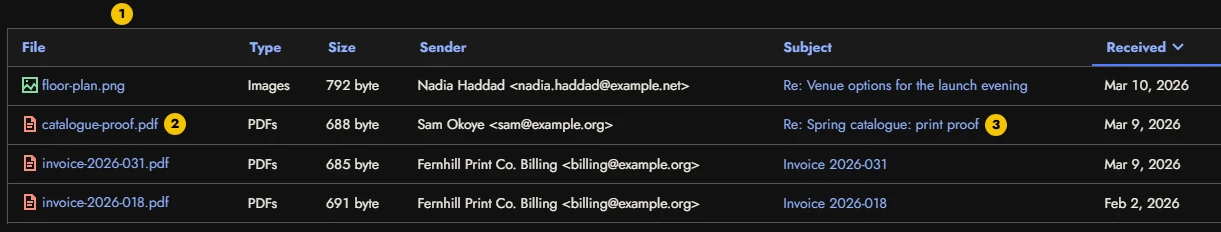
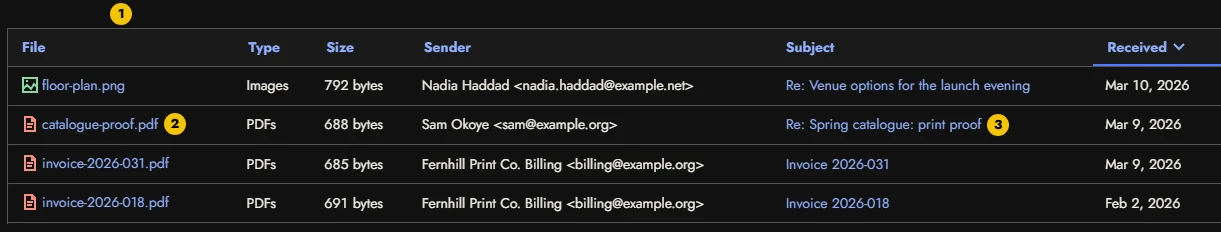
docs(user): folders orientation shot, template editor legend, linked mailbox crops

diff --git a/docs/user/mailbox/linked-accounts.md b/docs/user/mailbox/linked-accounts.md
@@ -18,10 +18,16 @@ A linked mailbox is another mailbox you open from Mailwoman while you stay signe
 
 1. Open **Settings** and choose **Linked mailboxes**.
 2. Choose **Link a mailbox**.
+
+![The Linked mailboxes card: its description, the Link a mailbox button, and the note that there are no linked mailboxes yet.](/screenshots/user-mailbox/linked-list.webp){.mw-crop}
+
+1. **Link a mailbox**.
+{.mw-callouts}
+
 3. Enter the **Username or email address** and the **Password** of the mailbox. The **Display name (optional)** can stay empty.
 4. Choose **Verify and link**.
 
-![The Link a mailbox form with the fields Username or email address, Password and Display name (optional), and the buttons Verify and link and Cancel.](/screenshots/user-mailbox/linked-form.webp){.mw-shot}
+![The Link a mailbox form with the fields Username or email address, Password and Display name (optional), and the buttons Verify and link and Cancel.](/screenshots/user-mailbox/linked-form.webp){.mw-crop}
 
 1. **Username or email address**.
 2. **Password**.
@@ -50,6 +56,13 @@ To see the mail of all your mailboxes together, see [Unified mail](/user/unified
 Choose **Unlink mailbox**, then **Confirm unlink**. This removes access through your primary account. It does not delete the mailbox or its messages.
 
 ## Options
+
+![The Mailbox preferences card with the checkboxes Use linked mailboxes, Preload linked mailboxes and Show mailbox connection icons.](/screenshots/user-mailbox/linked-preferences.webp){.mw-crop}
+
+1. **Use linked mailboxes**.
+2. **Preload linked mailboxes**.
+3. **Show mailbox connection icons**.
+{.mw-callouts}
 
 | Label | What it does | Default | Who can change it |
 |---|---|---|---|

diff --git a/docs/user/mailbox/templates.md b/docs/user/mailbox/templates.md
@@ -19,14 +19,13 @@ Templates are saved messages and snippets of text you use often: a full message 
 3. Type a **Template name**.
 4. To make a full message, fill in **Subject (optional)**, **To (optional)**, **Cc (optional)** or **Bcc (optional)**. Leave them empty for a snippet you want to reuse in any message.
 5. Write the text in the editor. It has the same tools as the composer.
-6. Choose **Back**, then **Save templates**. Until you save, **Discard changes** drops what you changed.
+6. Choose **Back**, then **Save templates** at the foot of the list. Until you save, **Discard changes** drops what you changed.
 
 ![The editor for a new personal template: the Template name, the optional Subject, To, Cc and Bcc fields, the text editor, and the Back and Compose from template buttons.](/screenshots/user-mailbox/templates-editor.webp){.mw-shot}
 
 1. **Template name**.
 2. **Subject (optional)**. **To**, **Cc** and **Bcc** are beside it.
 3. **Compose from template** opens a new message made from this template.
-4. **Save templates** is at the foot of the list.
 {.mw-callouts}
 
 A template holds up to 8,000 characters of plain message text, and a name up to 80 characters. You can keep up to 20 templates, and the library may use up to 64 KiB. The count beside **Add template** shows how many you have, for example **2 of 20 templates**.

diff --git a/docs/user/mailbox/folders-labels.md b/docs/user/mailbox/folders-labels.md
@@ -6,6 +6,14 @@ screen: true
 
 Folders hold messages: a message is in one folder at a time. Labels are tags you add to a message; a message can have several, and they do not move it. This page covers the folder list, the folder menu, creating and arranging folders, and labels.
 
+![The mailbox with the folder Projects selected: the folder sidebar on the left and the four messages of Projects in the message list.](/screenshots/user-mailbox/folders-screen.webp){.mw-shot}
+
+1. The folder sidebar, with the folders of the account.
+2. The message list, which shows the messages of the selected folder, here **Projects**.
+{.mw-callouts}
+
+## The folder list
+
 ![The folder list: Inbox, Drafts, Sent, Archive, Spam and Trash, then the group User folders with Projects and Receipts, each with unread and total counts.](/screenshots/user-mailbox/folders-sidebar.webp){.mw-crop}
 
 1. **Inbox**. The two numbers on a folder are its unread messages and its total messages.
